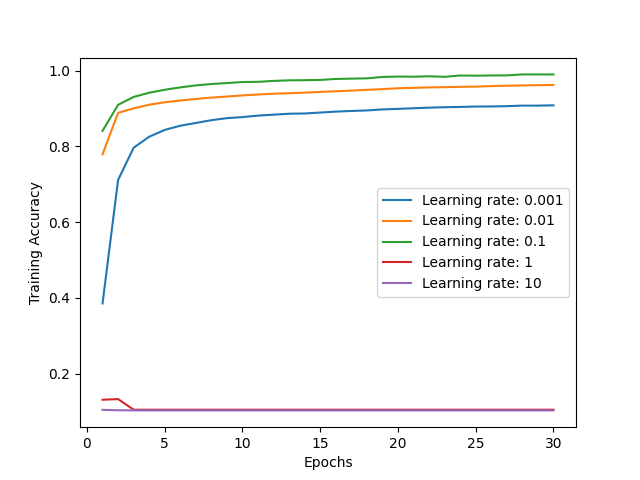
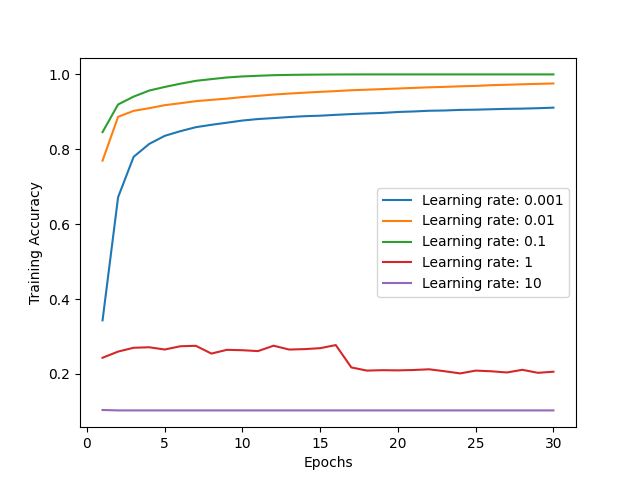
Fixed bad error

diff --git a/backprop_network.py b/backprop_network.py
@@ -27,9 +27,7 @@ class Network(object):
         return np.maximum(0, x)
 
     def relu_derivative(self, x):
-        derivative = np.zeros_like(x)
-        derivative[x > 0] = 1
-        return derivative
+        return np.where(x > 0, 1, 0)
 
     def cross_entropy_loss(self, logits, y_true):
         m = y_true.shape[0]
@@ -55,14 +53,14 @@ class Network(object):
         """
         L = self.num_layers
         prev_z = X.copy()
-        forward_outputs = []
+        forward_outputs = []  # [i] = (W[i + 1], b[i + 1], Z[i], V[i + 1])
 
         for l in range(L):
-            W = self.parameters["W" + (str(l + 1))]
+            W = self.parameters["W" + str(l + 1)]
             b = self.parameters["b" + str(l + 1)]
-            V = (W @ prev_z) + b
+            V = (W @ prev_z) + b  # V[l + 1] = W[l + 1]Z[l] + b[l + 1]
             Z = self.relu(V) if l + 1 < L else V
-            forward_outputs.append((W, b, prev_z, V, Z))
+            forward_outputs.append((W, b, prev_z, V))
             prev_z = Z.copy()
 
         ZL = prev_z
@@ -92,9 +90,7 @@ class Network(object):
                 else (self.relu_derivative(forward_outputs[l][3]) * delta)
             )
             mul = delta * self.relu_derivative(forward_outputs[l - 1][3])
-            grads["dW" + str(l)] = (
-                mul @ self.relu_derivative(forward_outputs[l - 1][2]).T
-            ) / batch_size
+            grads["dW" + str(l)] = (mul @ forward_outputs[l - 1][2].T) / batch_size
             grads["db" + str(l)] = np.mean(mul, axis=1, keepdims=True)
 
         return grads

diff --git a/backprop_main.py b/backprop_main.py
@@ -145,7 +145,7 @@ def e():
     learning_rate = 0.1
 
     # Network configuration
-    layer_dims = [784, 256, 128, 32, 10]
+    layer_dims = [784, 256, 32, 10]
 
     # Training
     net = Network(layer_dims)
